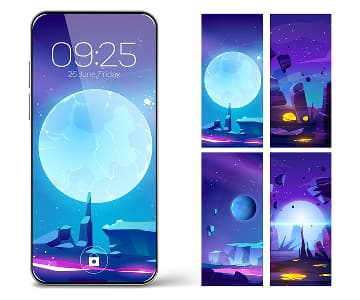
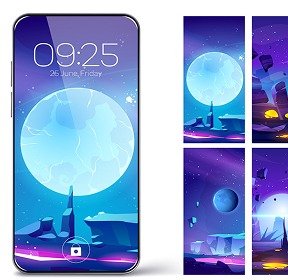
portfolio alligned

diff --git a/index.html b/index.html
@@ -297,8 +297,7 @@
                 <ul class="portfolio-list">
                     <li class="portfolio-item">
                         <div class="container-portfolio-wrap">
-                            <img class="img-portfolio" src="./images/banking_app.jpg" alt="Banking App" width="360"
-                                height="300" />
+                            <img class="img-portfolio" src="./images/banking_app.jpg" alt="Banking App"/>
                             <p class="text-image-portfolio">
                                 14 Stylish and User-Friendly App Design Concepts · Task Manager App · Calorie Tracker
                                 App · Exotic Fruit Ecommerce App ·
@@ -306,15 +305,17 @@
                             </p>
                         </div>
                         <div class="container-portfolio">
-                            <h3 class="subtitle-portfolio">Banking App</h3>
-                            <p class="text-portfolio">App</p>
+                            <div class="portfolio-inner">
+                                <h3 class="subtitle-portfolio">Banking App</h3>
+                                <p class="text-portfolio">App</p>
+                            </div>
                         </div>
                     </li>
 
                     <li class="portfolio-item">
                         <div class="container-portfolio-wrap">
                             <img class="img-portfolio" src="./images/cashless_payment.jpg" alt="Cashless payment"
-                                width="360" height="300" />
+                                 />
                             <p class="text-image-portfolio">
                                 14 Stylish and User-Friendly App Design Concepts · Task Manager App · Calorie Tracker
                                 App · Exotic Fruit Ecommerce
@@ -329,8 +330,7 @@
                     </li>
                     <li class="portfolio-item">
                         <div class="container-portfolio-wrap">
-                            <img class="img-portfolio" src="./images/mediation_app.jpg" alt="Mediation App" width="360"
-                                height="300" />
+                            <img class="img-portfolio" src="./images/mediation_app.jpg" alt="Mediation App"  />
                             <p class="text-image-portfolio">
                                 14 Stylish and User-Friendly App Design Concepts · Task Manager App · Calorie Tracker
                                 App · Exotic Fruit Ecommerce
@@ -346,8 +346,7 @@
 
                     <li class="portfolio-item">
                         <div class="container-portfolio-wrap">
-                            <img class="img-portfolio" src="./images/taxi_service.jpg" alt="Taxi Service" width="360"
-                                height="300" />
+                            <img class="img-portfolio" src="./images/taxi_service.jpg" alt="Taxi Service"  />
                             <p class="text-image-portfolio">
                                 14 Stylish and User-Friendly App Design Concepts · Task Manager App · Calorie Tracker
                                 App · Exotic Fruit Ecommerce
@@ -363,8 +362,7 @@
 
                     <li class="portfolio-item">
                         <div class="container-portfolio-wrap">
-                            <img class="img-portfolio" src="./images/screen.jpg" alt="Screen Illustrations" width="360"
-                                height="300" />
+                            <img class="img-portfolio" src="./images/screen.jpg" alt="Screen Illustrations"  />
                             <p class="text-image-portfolio">
                                 14 Stylish and User-Friendly App Design Concepts · Task Manager App · Calorie Tracker
                                 App · Exotic Fruit Ecommerce
@@ -381,7 +379,7 @@
                     <li class="portfolio-item">
                         <div class="container-portfolio-wrap">
                             <img class="img-portfolio" src="./images/online_courses.jpg" alt="Online Courses"
-                                width="360" height="300" />
+                                 />
                             <p class="text-image-portfolio">
                                 14 Stylish and User-Friendly App Design Concepts · Task Manager App · Calorie Tracker
                                 App · Exotic Fruit Ecommerce
@@ -399,7 +397,7 @@
         </section>
     </main>
 
-    <footer class="page-footer">
+    <!-- <footer class="page-footer">
         <div class="container container-page-footer">
             <div class="container container-footer">
                 <a class="footer-logo" href="./index.html">Web<span class="studio-white">Studio</span></a>
@@ -456,9 +454,9 @@
                 </form>
             </div>
         </div>
-    </footer>
+    </footer> -->
 
-    <div class="modal-overlay is-open">
+    <!-- <div class="modal-overlay is-open">
         <div class="modal">
             <button type="button" class="modal-button-close">
                 <svg class="icon-close" width="8" height="8">
@@ -520,7 +518,7 @@
                 <button class="button-modal-submit" type="submit">Send</button>
             </form>
         </div>
-    </div>
+    </div> -->
 </body>
 
 </html>

diff --git a/css/styles.css b/css/styles.css
@@ -1,6 +1,10 @@
 /* ======================== RESET & GLOBAL STYLES ============================= */
 /* these apply everywhere */
 
+*, *::before, *::after {
+  box-sizing: border-box;
+}
+
 
 /* Set base font, text color, and background for the whole page */
 body {
@@ -55,8 +59,10 @@ img {
     background: transparent;
     border: none;
     align-items: center;
-    width: 24px;   /* I wrote to set width and height 24x24  */
-    height: 24px; /* I wrote to set width and height 24x24  */
+    width: 24px;
+    /* I wrote to set width and height 24x24  */
+    height: 24px;
+    /* I wrote to set width and height 24x24  */
 }
 
 /* hide full nav & contactsm mobile*/
@@ -68,8 +74,9 @@ img {
 /* Set a maximum width and horizontal padding, and center the container mobile*/
 .container {
     width: 100%;
-    margin: 0 auto;  /* working not whenwidth 100% */
-    
+    margin: 0 auto;
+    /* working not whenwidth 100% */
+
 }
 
 /* Add a bottom border to the page header mobile*/
@@ -85,7 +92,7 @@ img {
     display: flex;
     align-items: center;
     justify-content: space-between;
-    
+
 }
 
 
@@ -94,12 +101,13 @@ img {
     display: flex;
     align-items: center;
     width: 100%;
-    justify-content: space-between; /* logo left macimu and hamburger maximum right */
+    justify-content: space-between;
+    /* logo left macimu and hamburger maximum right */
     padding-left: 16px;
     padding-top: 16px;
     padding-bottom: 16px;
     padding-right: 16px;
-    
+
 }
 
 
@@ -140,7 +148,8 @@ img {
     background-position: center;
     margin-left: auto;
     margin-right: auto;
-    margin-bottom: 96px; /* space below hero section about only for mobile and tablet */
+    margin-bottom: 96px;
+    /* space below hero section about only for mobile and tablet */
     min-width: 320px;
 }
 
@@ -159,7 +168,7 @@ img {
     margin-top: 72px; */
 
 
-    
+
 }
 
 /* Style for the button - Order services */
@@ -191,7 +200,8 @@ img {
 
 /* Utility class to hide elements visually but keep them accessible */
 .visually-hidden {
-    position: absolute;      /* check how it is workking */
+    position: absolute;
+    /* check how it is workking */
     width: 1px;
     height: 1px;
     margin: -1px;
@@ -210,15 +220,22 @@ img {
 
 /* Layout with spacing for the about section mobile*/
 .about-list {
-    display: flex;  /* from video */
-    row-gap: 72px; /* from viedo */
+    display: flex;
+    /* from video */
+    row-gap: 72px;
+    /* from viedo */
     align-items: flex-start;
     justify-content: flex-start;
-    flex-direction: column; /* from viedo column for mobile */
-    max-width: 320px; /* from viedo  288px + 16px + 16px =320*/
-    padding-left: 16px; /* from viedo */
-    padding-right: 16px; /* from viedo */
-    margin: 0 auto; /* from viedo */
+    flex-direction: column;
+    /* from viedo column for mobile */
+    max-width: 320px;
+    /* from viedo  288px + 16px + 16px =320*/
+    padding-left: 16px;
+    /* from viedo */
+    padding-right: 16px;
+    /* from viedo */
+    margin: 0 auto;
+    /* from viedo */
 }
 
 /* Layout for each about item block */
@@ -292,7 +309,8 @@ img {
 /* Subtitle style for about and portfolio sections */
 .subtitle-about,
 .subtitle-portfolio {
-    align-self: center;   /* from video */
+    align-self: center;
+    /* from video */
     font-weight: 700;
     font-size: 36px;
     line-height: 1.11111;
@@ -333,8 +351,10 @@ img {
     box-shadow: 0px 1px 6px rgba(46, 47, 66, 0.08),
         0px 1px 1px rgba(46, 47, 66, 0.16),
         0px 2px 1px rgba(46, 47, 66, 0.08);
-    margin-left: 28px; /* only for mobile version */
-    margin-right: 28px; /* only for mobile version */
+    margin-left: 28px;
+    /* only for mobile version */
+    margin-right: 28px;
+    /* only for mobile version */
 }
 
 
@@ -346,13 +366,18 @@ img {
 
 /* Space below the team section title */
 .title-ourteam {
-    padding-top: 96px; 
+    padding-top: 96px;
     margin-bottom: 72px;
 }
 
 
 
 /* ===================== portfolio ==================== */
+
+portfolio-inner {
+    padding: 32px 16px
+}
+
 
 .container-portfolio1 {
     margin-top: 96px;
@@ -362,15 +387,34 @@ img {
 /* Space below the portfolio title  */
 .title-portfolio {
     margin-bottom: 72px;
-}  
+}
+
 
 /* Responsive grid layout for portfolio items */
 .portfolio-list {
+    
     display: flex;
+    align-items: flex-start;
+    justify-content: center;
+    align-items: center;
+    flex-direction: column;
+    gap: 8px;
+    /* display: flex;
     flex-wrap: wrap;
-    gap: 24px;             /* row gap blocking */
+    gap: 24px;
     row-gap: 48px;
+    justify-content: center;
+    margin-right: 16px;
+    margin-left: 16px; */
 }
+
+.portfolio-item {
+    display: flex;
+    flex-direction: column;
+    align-items: center;
+    
+}
+
 
 
 /* repeat how it is works */
@@ -419,6 +463,7 @@ img {
     padding: 32px 16px;
     border: 1px solid #e7e9fc;
     border-top: none;
+    width: 100%;
 }
 
 /* Shared text style for about and portfolio descriptions */
@@ -487,7 +532,7 @@ img {
     line-height: 1.5;
     letter-spacing: 0.02em;
     color: #f4f4fd;
-    max-width: 264px;    /* not making any changes in mobile version , check it */
+    max-width: 264px;
+    /* not making any changes in mobile version , check it */
 
 }
-
